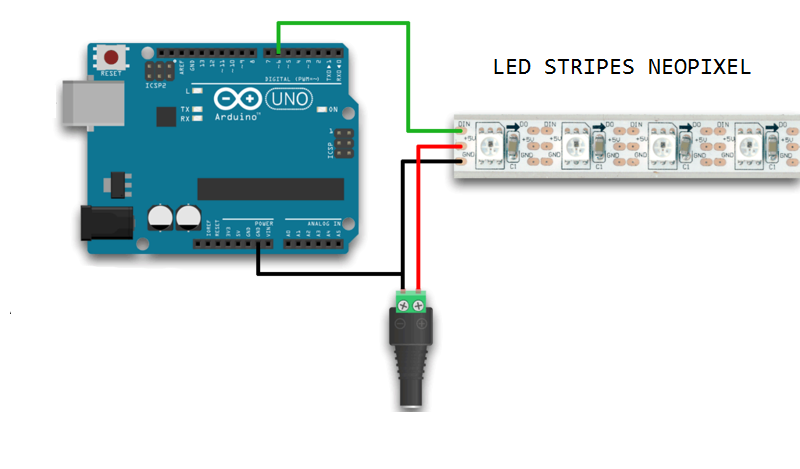
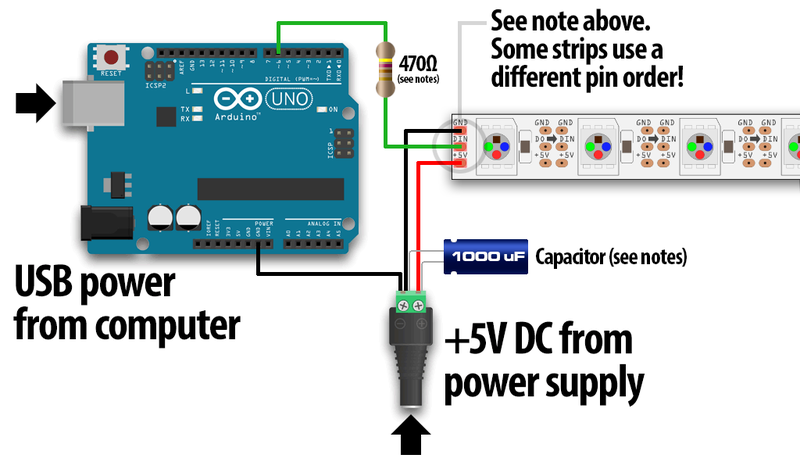
no message

diff --git a/Word-Clock2/doc/Doc.md b/Word-Clock2/doc/Doc.md
@@ -278,6 +278,10 @@ Questo è lo schema elettrico dei led stripes, i led devono essere collegati dir
 
 Abbiamo trovato il codice per utilizzare il componente DCF77 sul sito dell'arduino ed abbiamo scaricato delle librerie che necessitavamo per interagire con il componente inserendoli nel percorso libraries C:\Program Files (x86)\Arduino\libraries. Abbiamo avuto molti problemi perchè una volta compilato il nostro codice perchè utilizzando la frequenza corretta non riuscuvamo a ricevere i dati dell'orario attuale, per risolvere il problema abbiamo 
 
+#### Montaggio led stripes
+
+Per inserire i led stripes nel contrenitore
+
 ### Test
 
 ### Protocollo di test
